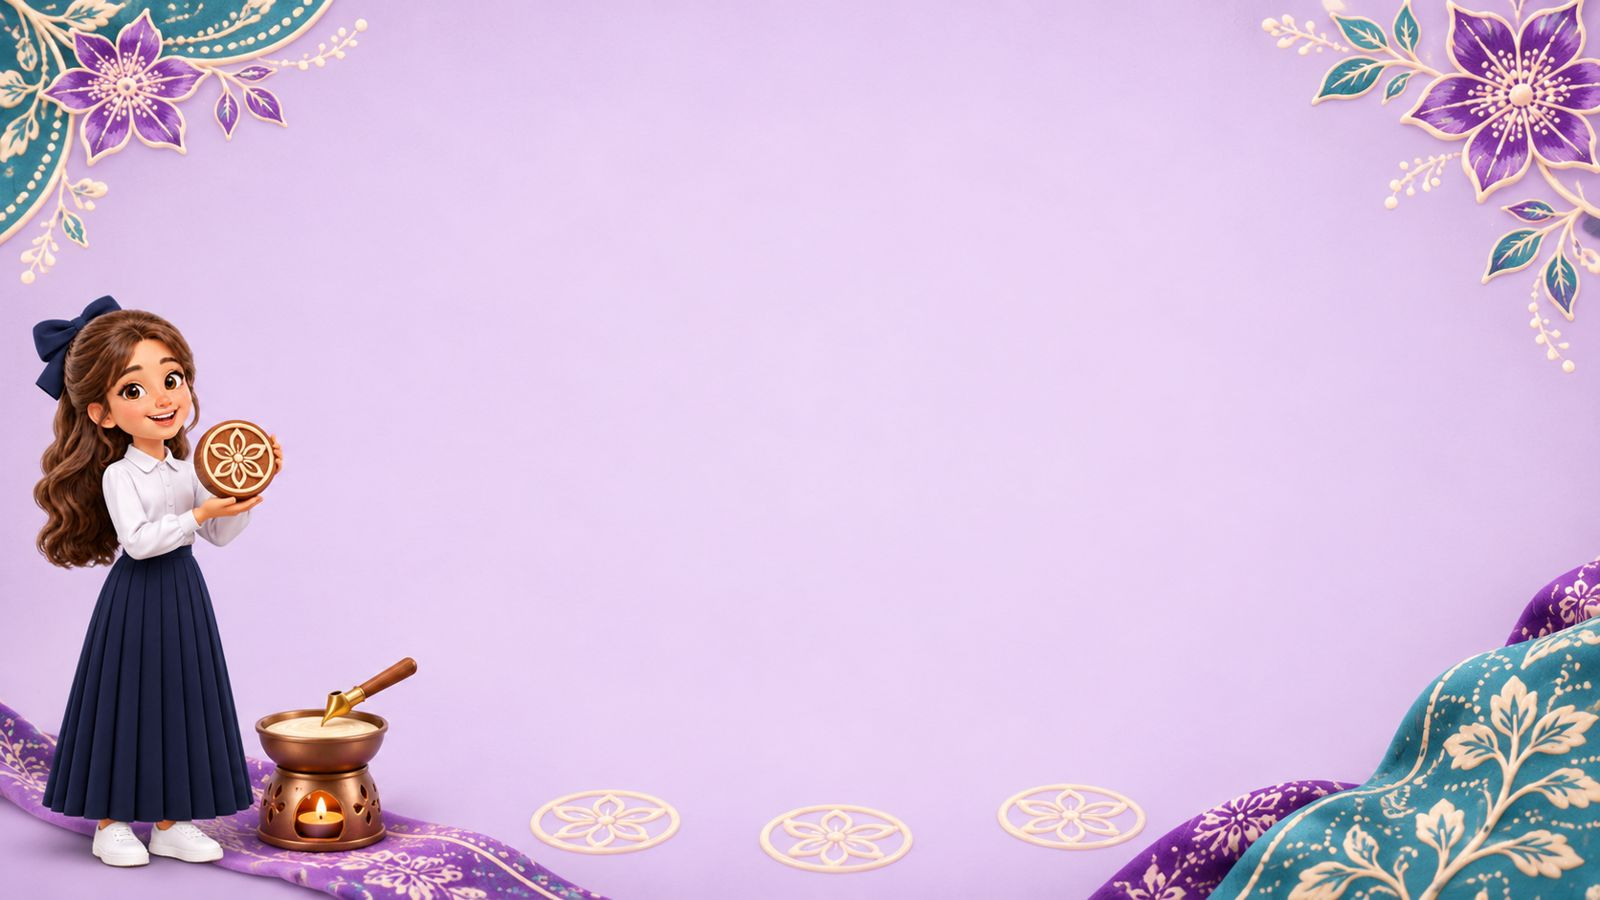
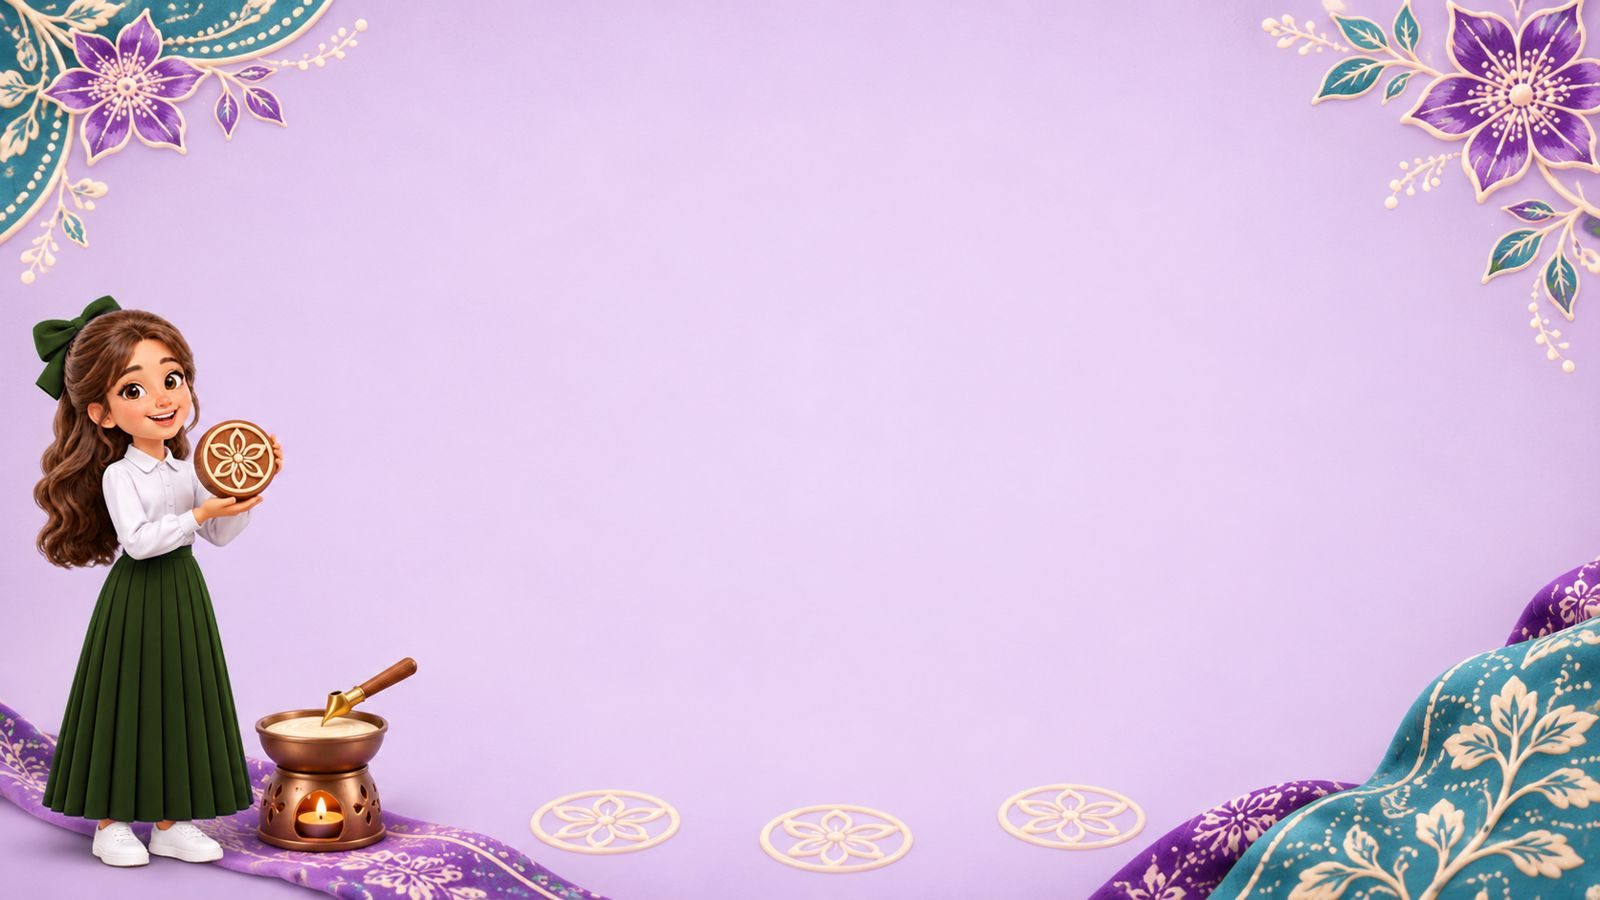
Batik pages: recolor girl outfit to olive green
Claude-Session: https://claude.ai/code/session_0197jC7dP91UeUUrHjkRpCm9

Changed region(s): [[0.0312, 0.5911, 0.1562, 0.9333], [0.0, 0.3422, 0.0625, 0.4356], [0.0625, 0.3111, 0.0938, 0.3422]]

diff --git a/batik/timer.html b/batik/timer.html
@@ -1,6 +1,6 @@
 <!doctype html><html lang="ar" dir="rtl"><head><meta charset="utf-8"><meta name="viewport" content="width=device-width,initial-scale=1"><title>مؤقت الحصة</title>
 <link href="https://fonts.googleapis.com/css2?family=Almarai:wght@400;800&display=swap" rel="stylesheet">
-<style>body{margin:0;min-height:100vh;font-family:Almarai,sans-serif;background:#1E3557 url(img/ripple.jpg) center/cover;display:flex;align-items:center;justify-content:center;color:#fff}
+<style>body{margin:0;min-height:100vh;font-family:Almarai,sans-serif;background:#1E3557 url(img/display.jpg) center/cover;display:flex;align-items:center;justify-content:center;color:#fff}
 .card{background:rgba(30,53,87,.72);border:3px solid #F2C14E;border-radius:28px;padding:28px 34px;text-align:center;max-width:92vw}
 h1{margin:0 0 8px;font-size:28px;color:#F2C14E}
 .ring{position:relative;width:min(62vw,340px);height:min(62vw,340px);margin:10px auto}
